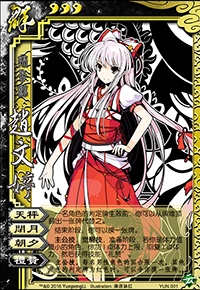
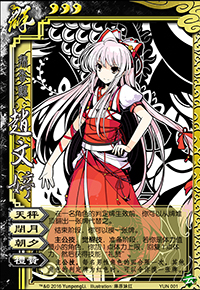
add general liyunpeng and update zhaowenting

Changed region(s): [[0.24, 0.7138, 0.93, 0.7759]]

diff --git a/src/package/yun.cpp b/src/package/yun.cpp
@@ -845,6 +845,89 @@ public:
     }
 };
 
+class Xianjian : public TriggerSkill
+{
+public:
+    Xianjian() : TriggerSkill("xianjian")
+    {
+        events << CardUsed << FinishJudge << EventPhaseChanging;
+    }
+
+    bool trigger(TriggerEvent triggerEvent, Room *room, ServerPlayer *player, QVariant &data) const
+    {
+        if(triggerEvent == CardUsed) {
+            CardUseStruct use = data.value<CardUseStruct>();
+            if (!player->hasFlag(objectName()) && use.card->isKindOf("Slash") && player->getPhase() == Player::Play) {
+                bool invoke = false;
+                while (use.from->askForSkillInvoke(this, data)) {
+                    invoke = true;
+                    JudgeStruct judge;
+                    judge.good = true;
+                    judge.reason = objectName();
+                    judge.who = player;
+                    room->judge(judge);
+
+                    if(player->tag["xianjian-judge"].toBool()) {
+                        QList<ServerPlayer *> targets;
+                        foreach(ServerPlayer* p, room->getAlivePlayers()) {
+                            if(p != player && !(use.to.contains(p)) && player->canSlash(p)) {
+                                targets << p;
+                            }
+                        }
+                        if(targets.empty()){
+                            break;
+                        }
+                        ServerPlayer *target = room->askForPlayerChosen(player, targets, objectName(), "#xianjian-more-target", true, true);
+                        if(target != NULL) {
+                            use.to.append(target);
+                        }else {
+                            break;
+                        }
+                    }else break;
+                }
+                if(invoke) {
+                    room->sortByActionOrder(use.to);
+                    data.setValue(use);
+                    room->setPlayerFlag(player, objectName());
+                }
+            }
+        }else if(triggerEvent == FinishJudge) {
+            JudgeStruct *judge = data.value<JudgeStruct *>();
+            if (judge->reason == objectName()) {
+                bool isBlack = judge->card->isBlack();
+                if(!isBlack) player->obtainCard(judge->card);
+                player->tag["xianjian-judge"] = QVariant::fromValue(isBlack);
+            }
+        }else if(triggerEvent == EventPhaseChanging) {
+            if(data.value<PhaseChangeStruct>().to == Player::Play) {
+                room->setPlayerFlag(player, "-" + objectName());
+            }
+        }
+
+        return false;
+    }
+};
+
+class Qixia : public TriggerSkill {
+public:
+    Qixia() : TriggerSkill("qixia")
+    {
+        events << Dying;
+    }
+
+    bool trigger(TriggerEvent, Room *room, ServerPlayer *player, QVariant &data) const
+    {
+        QList<ServerPlayer*> feiges = room->findPlayersBySkillName(objectName());
+        foreach(ServerPlayer* feige, feiges) {
+            if(room->askForSkillInvoke(feige, objectName(), data)) {
+                data.value<DyingStruct>().who->drawCards(1, objectName());
+                feige->drawCards(1, objectName());
+            }
+        }
+        return false;
+    }
+};
+
 YunPackage::YunPackage()
     :Package("yun")
 {
@@ -879,6 +962,10 @@ YunPackage::YunPackage()
     zhaowenting->addSkill("biyue");
     zhaowenting->addSkill(new Zhaoxi);
     zhaowenting->addRelateSkill("lizan");
+
+    General *liyunpeng = new General(this, "liyunpeng", "qun", 3); //Yun 003
+    liyunpeng->addSkill(new Xianjian);
+    liyunpeng->addSkill(new Qixia);
 
     addMetaObject<QiaopoCard>();
     addMetaObject<XingcanCard>();

diff --git a/src/core/player.cpp b/src/core/player.cpp
@@ -230,6 +230,7 @@ bool Player::inMyAttackRange(const Player *other, int distance_fix) const
     }
 
     // end
+
     if (attack_range_pair.contains(other)) return true;
     return this != other && distanceTo(other, distance_fix) <= getAttackRange();
 }
